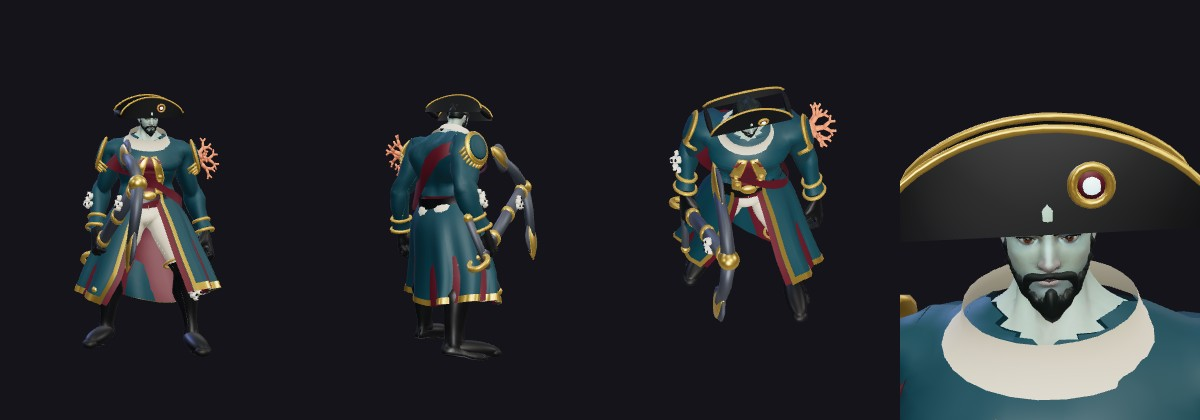
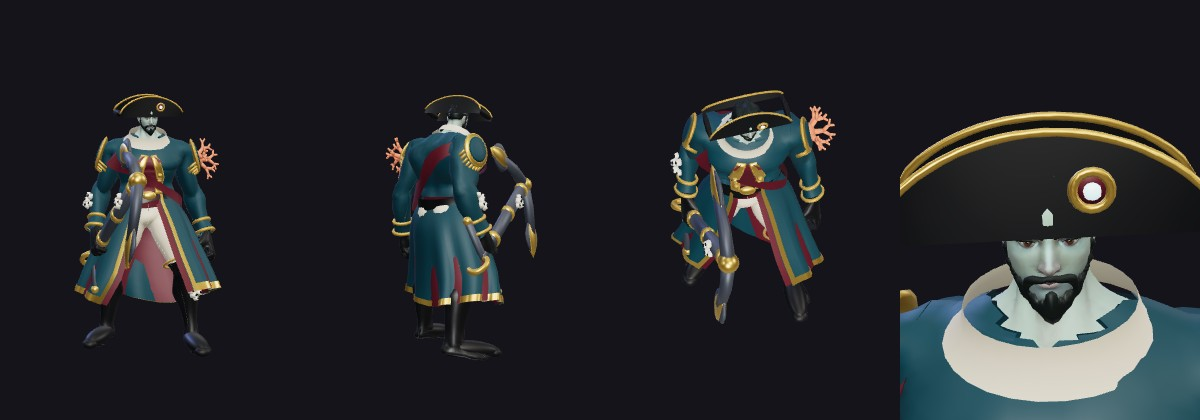
The Climb's rulers and enemies: the page grows a Rulers and an Enemies part, the line-ups and in-game pictures of every chapter, the README and the News line
Also the Last Marshal's cloak in charcoal (a pale one bloomed in his room).

diff --git a/docs/tower/models/index.html b/docs/tower/models/index.html
@@ -1,5 +1,5 @@
 <!doctype html><html lang="en"><head><meta charset="utf-8"><meta name="viewport" content="width=device-width, initial-scale=1">
-<title>The Climb's People</title>
+<title>The Climb's Figures</title>
 <style>
 :root{--bg:#f4f1ea;--fg:#1d1b21;--mute:#6a6470;--card:#fffdf8;--line:#ddd6c8;--gold:#9a7424}
 @media (prefers-color-scheme: dark){:root{--bg:#15141a;--fg:#ece6da;--mute:#a49eaa;--card:#1f1d25;--line:#34303c;--gold:#d2ae55}}
@@ -13,16 +13,16 @@ figure{margin:0} figcaption{font-size:.9em;color:var(--mute);padding:.3em 0}
 .cards{display:grid;grid-template-columns:repeat(auto-fill,minmax(300px,1fr));gap:14px;margin:14px 0}
 .card{background:var(--card);border:1px solid var(--line);border-radius:8px;padding:8px}
 .card b{display:block;font-size:1.1em;color:var(--fg)} .card span{display:block} .card .role{color:var(--gold)}
-.wide{margin-top:8px}
+.wide{margin-top:8px} h3{margin-top:1.6em} h3 small{color:var(--mute);font-weight:400;font-size:.7em}
 p{max-width:70ch}
 </style></head><body><main>
-<h1>The Climb's people</h1>
+<h1>The Climb's people, rulers and enemies</h1>
 <p>Twenty-five people of their own, five a chapter, in place of the heroes who used to stand in the camps (the user, 2026-11-14:
 "make new models for npc, don't reuse them from heroes"). In each chapter the keeper stands on all ten floors; the quest giver at the
 camp and the one out in the land each keep their own lines; the two traders take turns, odd floors and even floors. Rivals and
 gatekeepers are still heroes: they are fights against a hero. Built like the heroes (the pack's body on the animation pack's
 skeleton, blender/tower), each 450 to 550 KB.</p>
-<nav><a href="#sea">The Sea</a><a href="#wood">The Wood</a><a href="#sands">The Sands</a><a href="#deep">The Deep</a><a href="#war">The War</a></nav>
+<nav><a href="#sea">The Sea</a><a href="#wood">The Wood</a><a href="#sands">The Sands</a><a href="#deep">The Deep</a><a href="#war">The War</a><a href="#rulers">Rulers</a><a href="#enemies">Enemies</a></nav>
 <section id="sea"><h2>The Sea <small>floors 1 to 10 · navy and sea-green, the harbour's wine, sea-glass light</small></h2>
 <div class="pair"><figure><img loading="lazy" src="sea-lineup-game.jpg" alt="The Sea's five beside Sefu and Kaia from the game's camera"><figcaption>From the game's camera, beside the heroes Sefu and Kaia</figcaption></figure>
 <figure><img loading="lazy" src="sea-lineup-front.jpg" alt="The Sea's five beside Sefu and Kaia from the front"><figcaption>From the front</figcaption></figure></div>
@@ -74,4 +74,76 @@ skeleton, blender/tower), each 450 to 550 KB.</p>
 <figcaption><b>The Quartermaster</b><span class="role">Trader Stands on the even floors.</span><span>He keeps the stores that both armies left behind, and opens them for shards.</span></figcaption></figure></div>
 <figure class="wide"><img loading="lazy" src="war-ingame.jpg" alt="In the game: the camp of The War's first floor with its people and the keeper's card open"><figcaption>In the game: the camp of floor 41, the keeper's card open</figcaption></figure>
 </section>
+<section id="rulers"><h2>The rulers: fifteen giants, three a chapter</h2><p>Each ruler stands on three floors of its chapter under that floor's own name, tint and size; the chapter's first floor has the first of them in its own colours. Built as giants, not heroes made big: broad and deep, a smaller head, big hands. The fights are the floors' own (same moves, health and timings); the model brings its look and its hit size. The crowns (floors 10, 20, 30, 40, 50) are Raid bosses. 349 to 611 KB and 13,500 to 28,800 faces each; one is loaded at a time.</p><h3>The Sea <small>floors 1 to 10</small></h3>
+<div class="pair"><figure><img loading="lazy" src="sea-rulers-game.jpg" alt="The Sea's rulers beside Sefu and Kaia from the game's camera"><figcaption>From the game's camera, beside the heroes Sefu and Kaia (rulers drawn 2.2 times a hero; the floors draw them 2.1 to 2.9)</figcaption></figure>
+<figure><img loading="lazy" src="sea-rulers-front.jpg" alt="The Sea's rulers from the front"><figcaption>From the front</figcaption></figure></div>
+<div class="cards"><figure class="card"><img loading="lazy" src="sea-admiral.jpg" alt="The Drowned Admiral: front, back, the game's camera and the face">
+<figcaption><b>The Drowned Admiral</b><span class="role">floors 1 (the Drowned Captain), 2, 3</span><span>The Drowned Admiral (the Sea&#x27;s ruler, a boss drawn about 2.2 times a hero&#x27;s size): the admiral who went down with his fleet and still holds the harbour.</span></figcaption></figure><figure class="card"><img loading="lazy" src="sea-queen.jpg" alt="The Drowned Queen: front, back, the game's camera and the face">
+<figcaption><b>The Drowned Queen</b><span class="role">floors 4 (Mother of Wrecks), 6 (the Pearl Tyrant), 9 (the Gull Queen)</span><span>The Drowned Queen (the Sea&#x27;s second ruler, a boss drawn about 2.2 to 2.5 times a hero&#x27;s size: Mother of Wrecks, the Pearl Tyrant, the Gull Queen): the queen of what the sea keeps.</span></figcaption></figure><figure class="card"><img loading="lazy" src="sea-judge.jpg" alt="The Bell Judge: front, back, the game's camera and the face">
+<figcaption><b>The Bell Judge</b><span class="role">floors 5 (the Tide Judge), 7 (the Bell Below), 8 (the Lantern Leviathan)</span><span>The Bell Judge (the Sea&#x27;s third ruler, a boss drawn about 2.3 to 2.5 times a hero&#x27;s size: the Tide Judge, the Bell Below, the Lantern Leviathan): the sea&#x27;s own law, who sank with the court that tried the drowned.</span></figcaption></figure></div>
+<figure class="wide"><img loading="lazy" src="sea-ruler-ingame.jpg" alt="In the game: a ruler's fight in The Sea"><figcaption>In the game: a ruler's fight</figcaption></figure><h3>The Wood <small>floors 11 to 20</small></h3>
+<div class="pair"><figure><img loading="lazy" src="wood-rulers-game.jpg" alt="The Wood's rulers beside Sefu and Kaia from the game's camera"><figcaption>From the game's camera, beside the heroes Sefu and Kaia (rulers drawn 2.2 times a hero; the floors draw them 2.1 to 2.9)</figcaption></figure>
+<figure><img loading="lazy" src="wood-rulers-front.jpg" alt="The Wood's rulers from the front"><figcaption>From the front</figcaption></figure></div>
+<div class="cards"><figure class="card"><img loading="lazy" src="wood-elder.jpg" alt="The Elder Root: front, back, the game's camera and the face">
+<figcaption><b>The Elder Root</b><span class="role">floors 11, 12 (the Moss Warden), 15 (the Hollow Elder)</span><span>The Elder Root (the Wood&#x27;s first ruler, a boss drawn about 2.7 times a hero&#x27;s size; also the Moss Warden and the Hollow Elder): the oldest thing in the wood, the heart the roots feed.</span></figcaption></figure><figure class="card"><img loading="lazy" src="wood-briar.jpg" alt="The Briar Queen: front, back, the game's camera and the face">
+<figcaption><b>The Briar Queen</b><span class="role">floors 13 (the Thorn Mother), 16 (the Briar Witch), 19 (the Mire Heart)</span><span>The Briar Queen (the Wood&#x27;s second ruler, a boss drawn about 2.6 to 2.9 times a hero&#x27;s size: the Thorn Mother, the Briar Witch, the Mire Heart): the wood&#x27;s thorns made a queen.</span></figcaption></figure><figure class="card"><img loading="lazy" src="wood-antler.jpg" alt="The Antler King: front, back, the game's camera and the face">
+<figcaption><b>The Antler King</b><span class="role">floors 14, 17 (the Lantern Root), 18 (the Grey Oak)</span><span>The Antler King (the Wood&#x27;s third ruler, a boss drawn about 2.6 to 2.9 times a hero&#x27;s size: the Antler King, the Lantern Root, the Grey Oak): the hunt&#x27;s lord, who wears the great stag he slew.</span></figcaption></figure></div>
+<figure class="wide"><img loading="lazy" src="wood-ruler-ingame.jpg" alt="In the game: a ruler's fight in The Wood"><figcaption>In the game: a ruler's fight</figcaption></figure><h3>The Sands <small>floors 21 to 30</small></h3>
+<div class="pair"><figure><img loading="lazy" src="sands-rulers-game.jpg" alt="The Sands's rulers beside Sefu and Kaia from the game's camera"><figcaption>From the game's camera, beside the heroes Sefu and Kaia (rulers drawn 2.2 times a hero; the floors draw them 2.1 to 2.9)</figcaption></figure>
+<figure><img loading="lazy" src="sands-rulers-front.jpg" alt="The Sands's rulers from the front"><figcaption>From the front</figcaption></figure></div>
+<div class="cards"><figure class="card"><img loading="lazy" src="sands-scarab.jpg" alt="The Scarab King: front, back, the game's camera and the face">
+<figcaption><b>The Scarab King</b><span class="role">floors 21 (the Scarab Colossus), 22, 23 (the Dune Colossus)</span><span>The Scarab King (the Sands&#x27; first ruler, a boss drawn about 2.5 times a hero&#x27;s size: the Scarab Colossus, the Scarab King, the Dune Colossus): the beetle-god&#x27;s champion, armoured in his god&#x27;s shell.</span></figcaption></figure><figure class="card"><img loading="lazy" src="sands-sphinx.jpg" alt="The Brass Sphinx: front, back, the game's camera and the face">
+<figcaption><b>The Brass Sphinx</b><span class="role">floors 24, 26 (the Mirage Lord), 29 (the Sun-Eater)</span><span>The Brass Sphinx (the Sands&#x27; second ruler, a boss drawn about 2.4 to 2.7 times a hero&#x27;s size: the Brass Sphinx, the Mirage Lord, the Sun-Eater): the riddle-keeper of the wadi, a lion that stands as a man.</span></figcaption></figure><figure class="card"><img loading="lazy" src="sands-jackal.jpg" alt="The Red Jackal: front, back, the game's camera and the face">
+<figcaption><b>The Red Jackal</b><span class="role">floors 25 (the Glass Serpent), 27 (the Sand Tyrant), 28</span><span>The Red Jackal (the Sands&#x27; third ruler, a boss drawn about 2.4 to 2.6 times a hero&#x27;s size: the Glass Serpent, the Sand Tyrant, the Red Jackal): the wadi&#x27;s hunter-judge with a jackal&#x27;s head.</span></figcaption></figure></div>
+<figure class="wide"><img loading="lazy" src="sands-ruler-ingame.jpg" alt="In the game: a ruler's fight in The Sands"><figcaption>In the game: a ruler's fight</figcaption></figure><h3>The Deep <small>floors 31 to 40</small></h3>
+<div class="pair"><figure><img loading="lazy" src="deep-rulers-game.jpg" alt="The Deep's rulers beside Sefu and Kaia from the game's camera"><figcaption>From the game's camera, beside the heroes Sefu and Kaia (rulers drawn 2.2 times a hero; the floors draw them 2.1 to 2.9)</figcaption></figure>
+<figure><img loading="lazy" src="deep-rulers-front.jpg" alt="The Deep's rulers from the front"><figcaption>From the front</figcaption></figure></div>
+<div class="cards"><figure class="card"><img loading="lazy" src="deep-prism.jpg" alt="The Prism Mother: front, back, the game's camera and the face">
+<figcaption><b>The Prism Mother</b><span class="role">floors 31, 32 (the Hollow Queen), 35 (Mother of Echoes)</span><span>The Prism Mother (the Deep&#x27;s first ruler, a boss drawn about 2.5 to 2.7 times a hero&#x27;s size: the Prism Mother, the Hollow Queen, Mother of Echoes): the mother of the crystals, who throws their light through the halls.</span></figcaption></figure><figure class="card"><img loading="lazy" src="deep-lamp.jpg" alt="The Lamp Warden: front, back, the game's camera and the face">
+<figcaption><b>The Lamp Warden</b><span class="role">floors 33, 37 (the Blind Cantor), 39 (the Drowned Lantern)</span><span>The Lamp Warden (the Deep&#x27;s second ruler, a boss drawn about 2.5 to 2.6 times a hero&#x27;s size: the Lamp Warden, the Blind Cantor, the Drowned Lantern): the blind keeper of the last great lamp, who sees by it without eyes.</span></figcaption></figure><figure class="card"><img loading="lazy" src="deep-seam.jpg" alt="The Seam King: front, back, the game's camera and the face">
+<figcaption><b>The Seam King</b><span class="role">floors 34 (the Glass Abbot), 36, 38 (the Gem Tyrant)</span><span>The Seam King (the Deep&#x27;s third ruler, a boss drawn about 2.5 times a hero&#x27;s size: the Glass Abbot, the Seam King, the Gem Tyrant): the king of the miners who dug too deep and kept what he found.</span></figcaption></figure></div>
+<figure class="wide"><img loading="lazy" src="deep-ruler-ingame.jpg" alt="In the game: a ruler's fight in The Deep"><figcaption>In the game: a ruler's fight</figcaption></figure><h3>The War <small>floors 41 to 50</small></h3>
+<div class="pair"><figure><img loading="lazy" src="war-rulers-game.jpg" alt="The War's rulers beside Sefu and Kaia from the game's camera"><figcaption>From the game's camera, beside the heroes Sefu and Kaia (rulers drawn 2.2 times a hero; the floors draw them 2.1 to 2.9)</figcaption></figure>
+<figure><img loading="lazy" src="war-rulers-front.jpg" alt="The War's rulers from the front"><figcaption>From the front</figcaption></figure></div>
+<div class="cards"><figure class="card"><img loading="lazy" src="war-marshal.jpg" alt="The Last Marshal: front, back, the game's camera and the face">
+<figcaption><b>The Last Marshal</b><span class="role">floors 41, 42 (the Iron Marshal), 45 (the Banner Knight)</span><span>The Last Marshal (the War&#x27;s first ruler, a boss drawn about 2.3 to 2.5 times a hero&#x27;s size: the Last Marshal, the Iron Marshal, the Banner Knight): the guard of both banners, who commands both armies and serves neither.</span></figcaption></figure><figure class="card"><img loading="lazy" src="war-siege.jpg" alt="The Siege Lord: front, back, the game's camera and the face">
+<figcaption><b>The Siege Lord</b><span class="role">floors 43, 44 (the Ashen General), 48 (the War Drummer)</span><span>The Siege Lord (the War&#x27;s second ruler, a boss drawn about 2.4 to 2.5 times a hero&#x27;s size: the Siege Lord, the Ashen General, the War Drummer): the breaker of walls, sooted by a hundred sieges.</span></figcaption></figure><figure class="card"><img loading="lazy" src="war-crow.jpg" alt="The Crow King: front, back, the game's camera and the face">
+<figcaption><b>The Crow King</b><span class="role">floors 46, 47 (the Black Herald), 49 (the Grey Captain)</span><span>The Crow King (the War&#x27;s third ruler, a boss drawn about 2.4 to 2.6 times a hero&#x27;s size: the Crow King, the Black Herald, the Grey Captain): he eats what the war leaves, and the crows are his court.</span></figcaption></figure></div>
+<figure class="wide"><img loading="lazy" src="war-ruler-ingame.jpg" alt="In the game: a ruler's fight in The War"><figcaption>In the game: a ruler's fight</figcaption></figure></section>
+<section id="enemies"><h2>The enemies: three people-shaped kinds a chapter</h2><p>The common melee one, the ranged or casting one, the big one; a named enemy shares its kind's figure under a tint, and the War's two armies share theirs in their own colours. They come in packs, so each is finished lighter: about 10,000 faces and five or six draw calls (286 to 325 KB). The beasts stay drawn in code: the brine crab, the bark hound, the stag, the shard mite, the crystal golem; so do the dust wraith (a spirit of the storm), the feeding root and the escorts. Decided here, for the user to overrule: the Wood's three are the moss giant, the thorn sprite and the Hollow Oak (its pack fighter is the hound); the Deep's are the lurker, the Lantern Thief and the Pale One (its caster is the golem).</p><h3>The Sea <small>floors 1 to 10</small></h3>
+<div class="pair"><figure><img loading="lazy" src="sea-enemies-game.jpg" alt="The Sea's enemies beside Sefu and Kaia from the game's camera"><figcaption>From the game's camera, beside the heroes Sefu and Kaia (each at its unit's size)</figcaption></figure>
+<figure><img loading="lazy" src="sea-enemies-front.jpg" alt="The Sea's enemies from the front"><figcaption>From the front</figcaption></figure></div>
+<div class="cards"><figure class="card"><img loading="lazy" src="sea-docker.jpg" alt="Drowned docker: front, back, the game's camera and the face">
+<figcaption><b>Drowned docker</b><span class="role">melee</span><span>A dock hand the sea took back and sent up the quay again.</span></figcaption></figure><figure class="card"><img loading="lazy" src="sea-netter.jpg" alt="Net caster: front, back, the game's camera and the face">
+<figcaption><b>Net caster</b><span class="role">caster: its net roots you</span><span>&quot;throws a net: you are rooted a moment&quot;): a fisherwoman the sea took and sent back.</span></figcaption></figure><figure class="card"><img loading="lazy" src="sea-mate.jpg" alt="The Harbourmaster’s Mate: front, back, the game's camera and the face">
+<figcaption><b>The Harbourmaster’s Mate</b><span class="role">the big one; Old Barnacle under a pale tint</span><span>The harbourmaster&#x27;s right hand, drowned with him and twice the man he was.</span></figcaption></figure></div>
+<figure class="wide"><img loading="lazy" src="sea-pack-ingame.jpg" alt="In the game: a pack fighting the hero in The Sea"><figcaption>In the game: a pack fighting the hero</figcaption></figure><h3>The Wood <small>floors 11 to 20</small></h3>
+<div class="pair"><figure><img loading="lazy" src="wood-enemies-game.jpg" alt="The Wood's enemies beside Sefu and Kaia from the game's camera"><figcaption>From the game's camera, beside the heroes Sefu and Kaia (each at its unit's size)</figcaption></figure>
+<figure><img loading="lazy" src="wood-enemies-front.jpg" alt="The Wood's enemies from the front"><figcaption>From the front</figcaption></figure></div>
+<div class="cards"><figure class="card"><img loading="lazy" src="wood-giant.jpg" alt="Moss giant: front, back, the game's camera and the face">
+<figcaption><b>Moss giant</b><span class="role">heavy melee</span><span>A giant of the old wood that the moss has half taken back.</span></figcaption></figure><figure class="card"><img loading="lazy" src="wood-sprite.jpg" alt="Thorn sprite: front, back, the game's camera and the face">
+<figcaption><b>Thorn sprite</b><span class="role">caster: throws thorns</span><span>A fae of the briars, slight and quick.</span></figcaption></figure><figure class="card"><img loading="lazy" src="wood-oak.jpg" alt="The Hollow Oak: front, back, the game's camera and the face">
+<figcaption><b>The Hollow Oak</b><span class="role">named, the big one</span><span>Walks the old road and strikes hard): a warden the wood grew round a man long ago, now more oak than man.</span></figcaption></figure></div>
+<figure class="wide"><img loading="lazy" src="wood-pack-ingame.jpg" alt="In the game: a pack fighting the hero in The Wood"><figcaption>In the game: a pack fighting the hero</figcaption></figure><h3>The Sands <small>floors 21 to 30</small></h3>
+<div class="pair"><figure><img loading="lazy" src="sands-enemies-game.jpg" alt="The Sands's enemies beside Sefu and Kaia from the game's camera"><figcaption>From the game's camera, beside the heroes Sefu and Kaia (each at its unit's size)</figcaption></figure>
+<figure><img loading="lazy" src="sands-enemies-front.jpg" alt="The Sands's enemies from the front"><figcaption>From the front</figcaption></figure></div>
+<div class="cards"><figure class="card"><img loading="lazy" src="sands-raider.jpg" alt="Raider: front, back, the game's camera and the face">
+<figcaption><b>Raider</b><span class="role">melee</span><span>A rider of the dunes without his camel, quick and lean.</span></figcaption></figure><figure class="card"><img loading="lazy" src="sands-slinger.jpg" alt="Slinger: front, back, the game's camera and the face">
+<figcaption><b>Slinger</b><span class="role">ranged: throws stones</span><span>A raider girl of the high dunes, light and watchful.</span></figcaption></figure><figure class="card"><img loading="lazy" src="sands-chief.jpg" alt="The Raider Chief: front, back, the game's camera and the face">
+<figcaption><b>The Raider Chief</b><span class="role">the big one; the rider and the Dune Mother under their tints</span><span>The warlord of the dunes.</span></figcaption></figure></div>
+<figure class="wide"><img loading="lazy" src="sands-pack-ingame.jpg" alt="In the game: a pack fighting the hero in The Sands"><figcaption>In the game: a pack fighting the hero</figcaption></figure><h3>The Deep <small>floors 31 to 40</small></h3>
+<div class="pair"><figure><img loading="lazy" src="deep-enemies-game.jpg" alt="The Deep's enemies beside Sefu and Kaia from the game's camera"><figcaption>From the game's camera, beside the heroes Sefu and Kaia (each at its unit's size)</figcaption></figure>
+<figure><img loading="lazy" src="deep-enemies-front.jpg" alt="The Deep's enemies from the front"><figcaption>From the front</figcaption></figure></div>
+<div class="cards"><figure class="card"><img loading="lazy" src="deep-lurker.jpg" alt="Lurker: front, back, the game's camera and the face">
+<figcaption><b>Lurker</b><span class="role">melee: leaps from the dark</span><span>A hunter of the lightless halls who has not seen the sun in a lifetime.</span></figcaption></figure><figure class="card"><img loading="lazy" src="deep-thief.jpg" alt="The Lantern Thief: front, back, the game's camera and the face">
+<figcaption><b>The Lantern Thief</b><span class="role">the big one</span><span>The robber of the halls, broad and sure-footed, who stole the miners&#x27; last lamp.</span></figcaption></figure><figure class="card"><img loading="lazy" src="deep-pale.jpg" alt="The Pale One: front, back, the game's camera and the face">
+<figcaption><b>The Pale One</b><span class="role">named</span><span>Something the Deep made of a king who went too far down.</span></figcaption></figure></div>
+<figure class="wide"><img loading="lazy" src="deep-pack-ingame.jpg" alt="In the game: a pack fighting the hero in The Deep"><figcaption>In the game: a pack fighting the hero</figcaption></figure><h3>The War <small>floors 41 to 50</small></h3>
+<div class="pair"><figure><img loading="lazy" src="war-enemies-game.jpg" alt="The War's enemies beside Sefu and Kaia from the game's camera"><figcaption>From the game's camera, beside the heroes Sefu and Kaia (each at its unit's size)</figcaption></figure>
+<figure><img loading="lazy" src="war-enemies-front.jpg" alt="The War's enemies from the front"><figcaption>From the front</figcaption></figure></div>
+<div class="cards"><figure class="card"><img loading="lazy" src="war-footman.jpg" alt="Footman: front, back, the game's camera and the face">
+<figcaption><b>Footman</b><span class="role">melee: crimson, azure, or ash for those of neither army</span><span>A ghost of the endless war still in the line.</span></figcaption></figure><figure class="card"><img loading="lazy" src="war-bowman.jpg" alt="Bowman: front, back, the game's camera and the face">
+<figcaption><b>Bowman</b><span class="role">ranged: crimson or azure</span><span>A crossbowman of the endless war.</span></figcaption></figure><figure class="card"><img loading="lazy" src="war-knight.jpg" alt="Knight: front, back, the game's camera and the face">
+<figcaption><b>Knight</b><span class="role">the big one: the armies’ knights; the Banner Bearer in black; the Deserter in grey</span><span>A knight of the endless war, still in full plate.</span></figcaption></figure></div>
+<figure class="wide"><img loading="lazy" src="war-pack-ingame.jpg" alt="In the game: a pack fighting the hero in The War"><figcaption>In the game: a pack fighting the hero</figcaption></figure></section>
 </main></body></html>

diff --git a/blender/tower/page.py b/blender/tower/page.py
@@ -76,10 +76,10 @@ def foe_section(kind, head, intro):
 RULERS_INTRO = ("Each ruler stands on three floors of its chapter under that floor's own name, tint and size; the chapter's first floor "
                 "has the first of them in its own colours. Built as giants, not heroes made big: broad and deep, a smaller head, big hands. "
                 "The fights are the floors' own (same moves, health and timings); the model brings its look and its hit size. The crowns "
-                "(floors 10, 20, 30, 40, 50) are Raid bosses. 350 to 610 KB and 13,500 to 28,800 faces each; one is loaded at a time.")
+                "(floors 10, 20, 30, 40, 50) are Raid bosses. 349 to 611 KB and 13,500 to 28,800 faces each; one is loaded at a time.")
 ENEMIES_INTRO = ("The common melee one, the ranged or casting one, the big one; a named enemy shares its kind's figure under a tint, and the "
                  "War's two armies share theirs in their own colours. They come in packs, so each is finished lighter: about 10,000 faces "
-                 "and five or six draw calls (300 to 325 KB). The beasts stay drawn in code: the brine crab, the bark hound, the stag, the "
+                 "and five or six draw calls (286 to 325 KB). The beasts stay drawn in code: the brine crab, the bark hound, the stag, the "
                  "shard mite, the crystal golem; so do the dust wraith (a spirit of the storm), the feeding root and the escorts. Decided here, "
                  "for the user to overrule: the Wood's three are the moss giant, the thorn sprite and the Hollow Oak (its pack fighter is the "
                  "hound); the Deep's are the lurker, the Lantern Thief and the Pale One (its caster is the golem).")

diff --git a/blender/tower/war/marshal.py b/blender/tower/war/marshal.py
@@ -21,7 +21,7 @@ def build():
     R.mat("plate", "#444852", rough=0.48, metal=0.6, double=True)
     R.mat("crimson", "#8c1e22", rough=0.62, double=True)
     R.mat("azure", "#1e3c8c", rough=0.62, double=True)
-    R.mat("white", "#a8a49c", rough=0.75, double=True)
+    R.mat("white", "#3a3c44", rough=0.75, double=True)
     R.mat("gold", "#d2ae55", rough=0.3, metal=0.85, double=True)
     R.mat("steel", "#c8ccd4", rough=0.22, metal=0.9)
     R.mat("glow", "#ffffff", rough=0.2, emit="#e8f0ff", strength=1.3)

diff --git a/docs/tower/models/README.md b/docs/tower/models/README.md
@@ -116,8 +116,16 @@ starts draws every enemy in code and every ruler as its stand-in (the A/B).
 
 **Lighter enemies** (`blender/tower/foes.py` `finish_light`, a module's `LIGHT = {...}`): decimated to about 10,000 faces, the plain
 colour materials merged into two (cloth, metal) through vertex colours, one UV map, a 512 skin texture: five draw calls (six with the
-War's `livery`), 300 to 325 KB. Rulers are finished as heroes (one at a time). All 30: 11.9 MB; a floor loads three enemy kinds and
-its ruler (about 1.4 MB) beside its people.
+War's `livery`), 286 to 325 KB (4.55 MB for the 15). Rulers are finished as heroes (one at a time): 349 to 611 KB (6.92 MB for
+the 15). All 30: 11.5 MB; a floor loads its three enemy files with its fight (about 0.95 MB) and its ruler's (about 0.5 MB) at the
+ruler's door.
+
+**On a phone** (`foeModels.ts`): a figure's five meshes share one skeleton (the clone gave each its own, and three updates and uploads
+every skeleton each frame: five times the bone work), a unit is posed 30 times a second (the pack's units out of step), and the code
+look is still built for every unit and let go at once when the figure is ready (building it draws the game's random numbers, which
+the perf scenes and the route bot replay seeded). Measured with `perf.py` (phone-4x, the Climb's world scenes, the base tree beside
+it the same hour): floor 1 38.8 against 42.9 ms a frame, floor 11 35.3 against 34.2, floor 31 41.3 against 49.2; desktop the same on
+all six floors measured.
 
 **The first pack** (`src/tower/world/prewarm.ts`): when a floor's fight begins its model files load, one figure of each stands with
 the code figures under the ground, and once they have landed they are compiled for the frame's target (the renderer is taken from a
